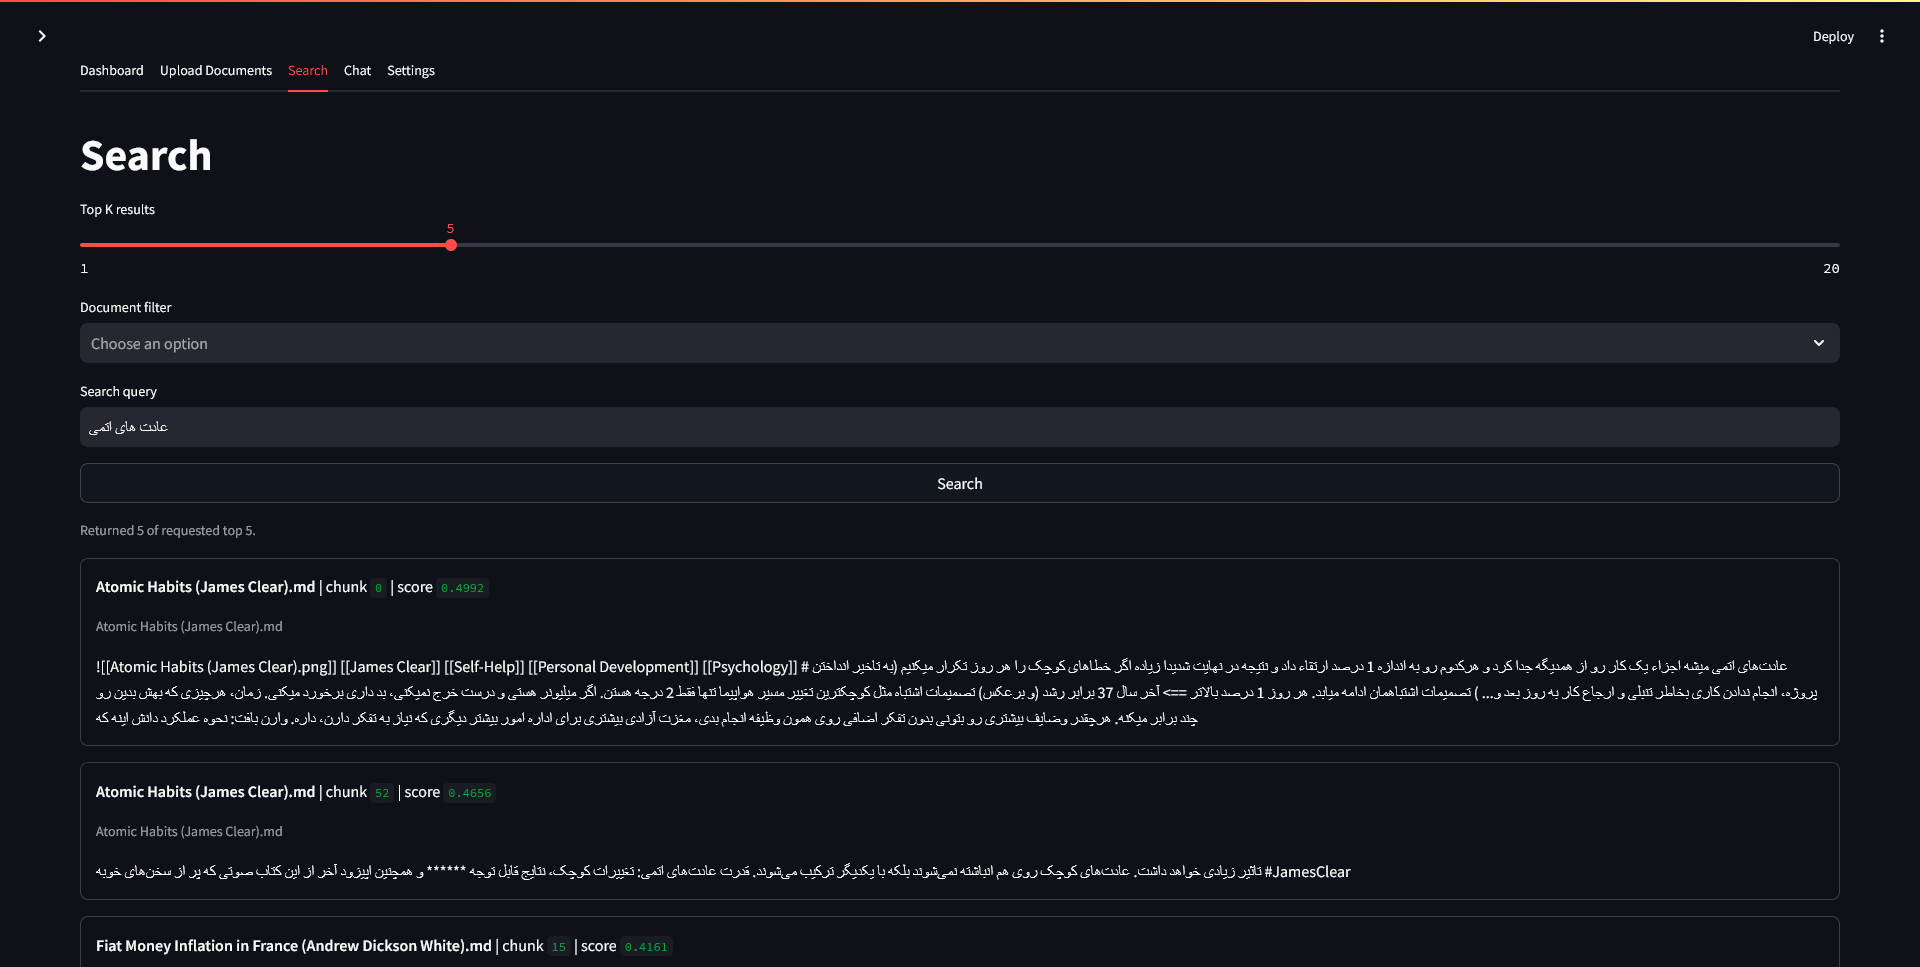
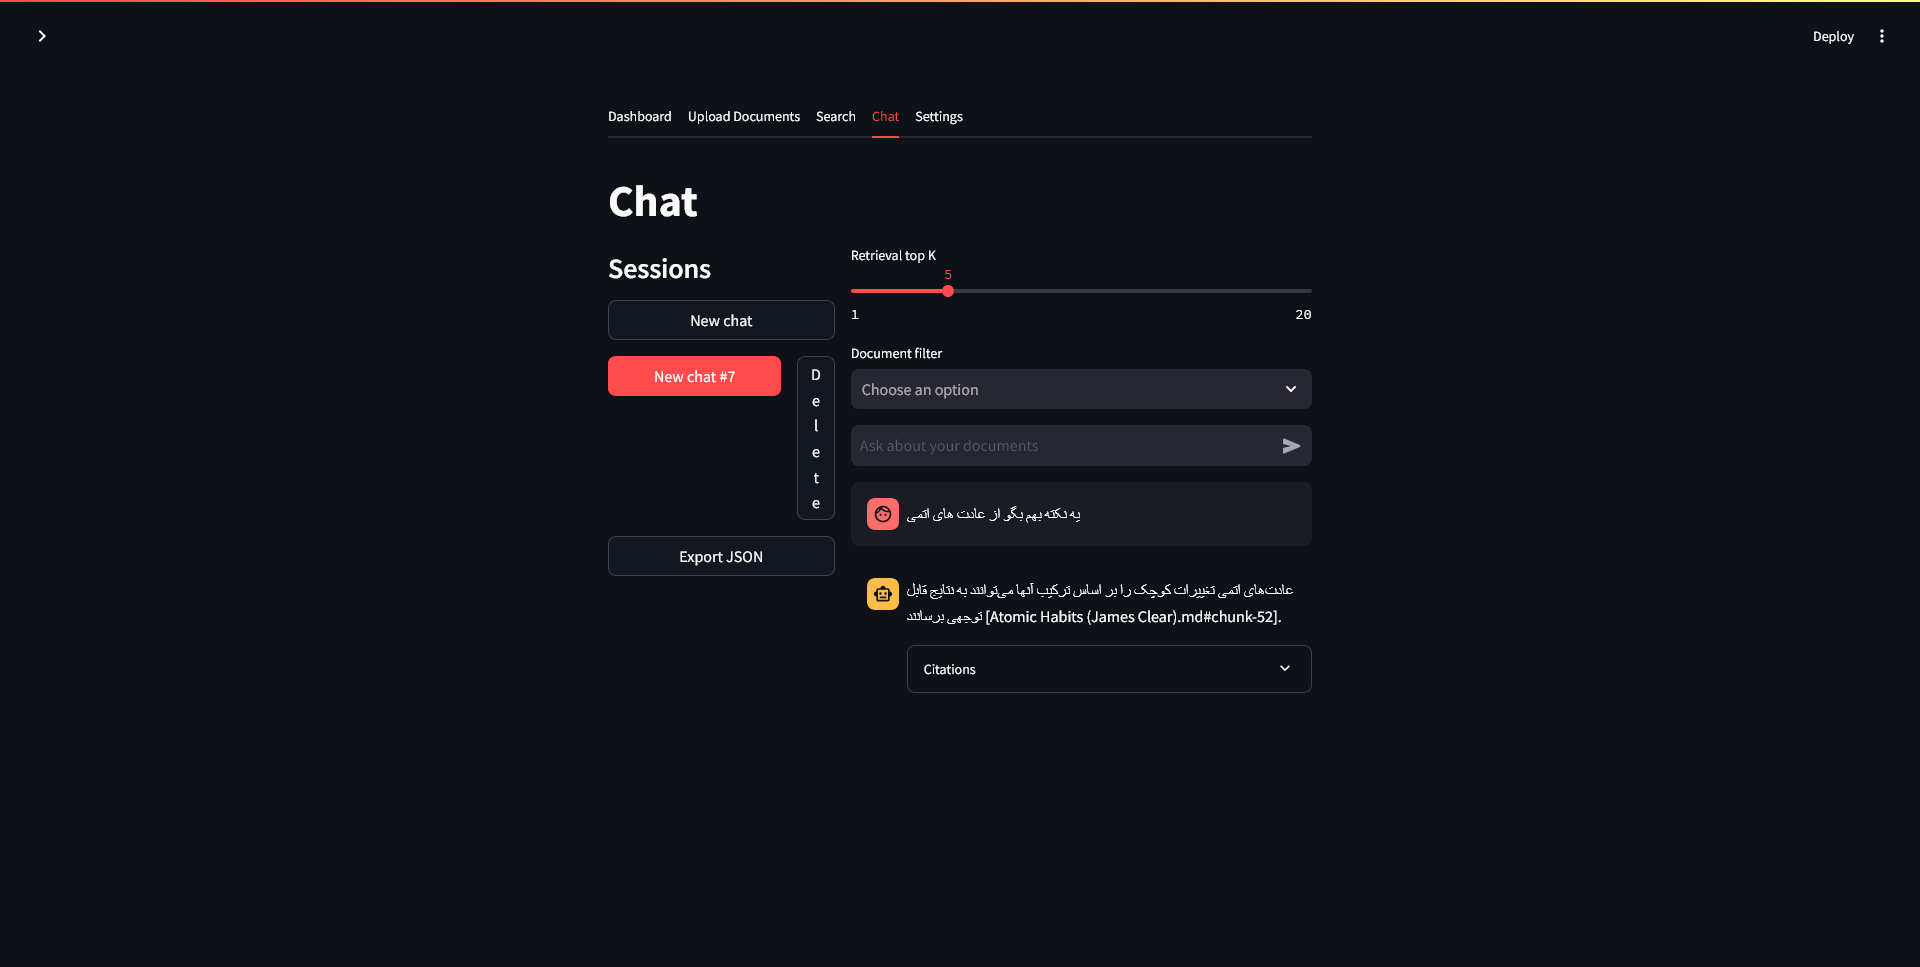
Fix session handling

diff --git a/app/main.py b/app/main.py
@@ -1,10 +1,17 @@
 from __future__ import annotations
 
 from dataclasses import asdict
+from http.cookies import SimpleCookie
 import json
 import sqlite3
 
 import streamlit as st
+import streamlit.components.v1 as components
+
+try:
+    from streamlit.web.server.websocket_headers import _get_websocket_headers
+except ImportError:  # pragma: no cover - Streamlit internal fallback.
+    _get_websocket_headers = None
 
 from app.auth.service import login_user, register_user
 from app.config import get_settings
@@ -19,21 +26,88 @@ from app.rag.retrieval import search_documents
 st.set_page_config(page_title="Ry-Vector", layout="wide")
 
 
+AUTH_COOKIE_NAME = "ry_vector_auth_token"
+AUTH_COOKIE_MAX_AGE = repo.AUTH_SESSION_DAYS * 24 * 60 * 60
+
+
+def session_user(user: UserRecord) -> dict[str, str | int]:
+    return {"id": user.id, "username": user.username, "email": user.email}
+
+
+def render_auth_cookie_script(token: str | None) -> None:
+    if token:
+        cookie_js = (
+            f"document.cookie = {json.dumps(AUTH_COOKIE_NAME)} + '=' + "
+            f"encodeURIComponent({json.dumps(token)}) + "
+            f"'; Max-Age={AUTH_COOKIE_MAX_AGE}; Path=/; SameSite=Lax';"
+        )
+    else:
+        cookie_js = (
+            f"document.cookie = {json.dumps(AUTH_COOKIE_NAME)} + "
+            "'=; Max-Age=0; Path=/; SameSite=Lax';"
+        )
+    components.html(f"<script>{cookie_js}</script>", height=0, width=0)
+
+
+def request_auth_token() -> str | None:
+    if _get_websocket_headers is None:
+        return None
+    try:
+        headers = _get_websocket_headers() or {}
+    except Exception:
+        return None
+    cookie_header = headers.get("Cookie") or headers.get("cookie")
+    if not cookie_header:
+        return None
+    cookies = SimpleCookie()
+    try:
+        cookies.load(cookie_header)
+    except Exception:
+        return None
+    morsel = cookies.get(AUTH_COOKIE_NAME)
+    return morsel.value if morsel else None
+
+
 def init_state() -> None:
     init_db()
     st.session_state.setdefault("user", None)
+    st.session_state.setdefault("auth_token", None)
+    st.session_state.setdefault("auth_cookie_needs_write", False)
     st.session_state.setdefault("active_chat_id", None)
+
+
+def start_authenticated_session(user: UserRecord) -> UserRecord:
+    token = repo.create_auth_session(user.id)
+    st.session_state["user"] = session_user(user)
+    st.session_state["auth_token"] = token
+    st.session_state["auth_cookie_needs_write"] = True
+    return user
 
 
 def current_user() -> UserRecord | None:
     user = st.session_state.get("user")
     if not user:
-        return None
+        token = request_auth_token()
+        if not token:
+            return None
+        fresh = repo.get_user_by_auth_token(token)
+        if not fresh:
+            render_auth_cookie_script(None)
+            return None
+        st.session_state["user"] = session_user(fresh)
+        st.session_state["auth_token"] = token
+        return fresh
     fresh = repo.get_user_by_id(user["id"])
+    if not fresh:
+        token = st.session_state.get("auth_token") or request_auth_token()
+        repo.delete_auth_session(token)
+        st.session_state["user"] = None
+        st.session_state["auth_token"] = None
+        render_auth_cookie_script(None)
     return fresh
 
 
-def login_register_page() -> None:
+def login_register_page() -> UserRecord | None:
     st.title("Ry-Vector")
     st.caption("Private multi-user RAG over your own documents.")
     tab_login, tab_register = st.tabs(["Login", "Register"])
@@ -46,8 +120,7 @@ def login_register_page() -> None:
         if submitted:
             user = login_user(identifier, password)
             if user:
-                st.session_state["user"] = {"id": user.id, "username": user.username, "email": user.email}
-                st.rerun()
+                return start_authenticated_session(user)
             st.error("Invalid username/email or password.")
 
     with tab_register:
@@ -69,19 +142,23 @@ def login_register_page() -> None:
             else:
                 try:
                     user = register_user(username, email, password)
-                    st.session_state["user"] = {"id": user.id, "username": user.username, "email": user.email}
-                    st.rerun()
+                    return start_authenticated_session(user)
                 except sqlite3.IntegrityError:
                     st.error("Username or email already exists.")
+    return None
 
 
-def sidebar(user: UserRecord) -> None:
+def sidebar(user: UserRecord) -> bool:
     with st.sidebar:
         st.subheader("Ry-Vector")
         st.caption(f"Signed in as {user.username}")
         if st.button("Logout", use_container_width=True):
+            token = st.session_state.get("auth_token") or request_auth_token()
+            repo.delete_auth_session(token)
             st.session_state.clear()
-            st.rerun()
+            render_auth_cookie_script(None)
+            return True
+    return False
 
 
 def dashboard_page(user: UserRecord) -> None:
@@ -226,7 +303,7 @@ def chat_page(user: UserRecord) -> None:
             st.info("No chat history yet.")
         for session in sessions:
             label = f"{session.title} #{session.id}"
-            select_col, delete_col = st.columns([4, 1])
+            select_col, delete_col = st.columns([2, 2])
             button_type = "primary" if active_session and active_session.id == session.id else "secondary"
             if select_col.button(label, key=f"session_{session.id}", type=button_type, use_container_width=True):
                 st.session_state["active_chat_id"] = session.id
@@ -333,10 +410,22 @@ def main() -> None:
     init_state()
     user = current_user()
     if not user:
-        login_register_page()
-        return
+        auth_placeholder = st.empty()
+        with auth_placeholder.container():
+            user = login_register_page()
+        if not user:
+            return
+        auth_placeholder.empty()
 
-    sidebar(user)
+    if st.session_state.get("auth_cookie_needs_write"):
+        render_auth_cookie_script(st.session_state.get("auth_token"))
+        st.session_state["auth_cookie_needs_write"] = False
+
+    if sidebar(user):
+        auth_placeholder = st.empty()
+        with auth_placeholder.container():
+            login_register_page()
+        return
     dashboard_tab, upload_tab, search_tab, chat_tab, settings_tab = st.tabs(
         ["Dashboard", "Upload Documents", "Search", "Chat", "Settings"]
     )

diff --git a/app/db/repositories.py b/app/db/repositories.py
@@ -1,6 +1,9 @@
 from __future__ import annotations
 
+from datetime import datetime, timedelta, timezone
+import hashlib
 import json
+import secrets
 from typing import Any, Iterable
 
 from passlib.context import CryptContext
@@ -16,6 +19,15 @@ from app.utils.files import now_utc_iso
 
 
 pwd_context = CryptContext(schemes=["bcrypt"], deprecated="auto")
+AUTH_SESSION_DAYS = 30
+
+
+def _utc_now_iso() -> str:
+    return datetime.now(timezone.utc).isoformat()
+
+
+def _hash_auth_token(token: str) -> str:
+    return hashlib.sha256(token.encode("utf-8")).hexdigest()
 
 
 def hash_password(password: str) -> str:
@@ -111,6 +123,54 @@ def authenticate_user(identifier: str, password: str) -> UserRecord | None:
     if not user:
         return None
     return user if verify_password(password, user.password_hash) else None
+
+
+def create_auth_session(user_id: int) -> str:
+    token = secrets.token_urlsafe(32)
+    created_at = _utc_now_iso()
+    expires_at = (datetime.now(timezone.utc) + timedelta(days=AUTH_SESSION_DAYS)).isoformat()
+    with get_connection() as conn:
+        conn.execute(
+            """
+            INSERT INTO auth_sessions (token_hash, user_id, created_at, last_used_at, expires_at)
+            VALUES (?, ?, ?, ?, ?)
+            """,
+            (_hash_auth_token(token), user_id, created_at, created_at, expires_at),
+        )
+    return token
+
+
+def get_user_by_auth_token(token: str) -> UserRecord | None:
+    token = token.strip()
+    if not token:
+        return None
+    token_hash = _hash_auth_token(token)
+    now = _utc_now_iso()
+    with get_connection() as conn:
+        conn.execute("DELETE FROM auth_sessions WHERE expires_at <= ?", (now,))
+        row = conn.execute(
+            """
+            SELECT users.*
+            FROM auth_sessions
+            JOIN users ON users.id = auth_sessions.user_id
+            WHERE auth_sessions.token_hash = ? AND auth_sessions.expires_at > ?
+            """,
+            (token_hash, now),
+        ).fetchone()
+        if not row:
+            return None
+        conn.execute(
+            "UPDATE auth_sessions SET last_used_at = ? WHERE token_hash = ?",
+            (now, token_hash),
+        )
+        return _row_to_user(row)
+
+
+def delete_auth_session(token: str | None) -> None:
+    if not token:
+        return
+    with get_connection() as conn:
+        conn.execute("DELETE FROM auth_sessions WHERE token_hash = ?", (_hash_auth_token(token.strip()),))
 
 
 def list_documents(user_id: int, include_deleted: bool = False) -> list[DocumentRecord]:

diff --git a/app/db/database.py b/app/db/database.py
@@ -61,6 +61,16 @@ SCHEMA_STATEMENTS = [
     )
     """,
     """
+    CREATE TABLE IF NOT EXISTS auth_sessions (
+        token_hash TEXT PRIMARY KEY,
+        user_id INTEGER NOT NULL,
+        created_at TEXT NOT NULL,
+        last_used_at TEXT NOT NULL,
+        expires_at TEXT NOT NULL,
+        FOREIGN KEY(user_id) REFERENCES users(id) ON DELETE CASCADE
+    )
+    """,
+    """
     CREATE INDEX IF NOT EXISTS idx_documents_user_id ON documents(user_id)
     """,
     """
@@ -71,6 +81,12 @@ SCHEMA_STATEMENTS = [
     """,
     """
     CREATE INDEX IF NOT EXISTS idx_chat_messages_session_id ON chat_messages(session_id)
+    """,
+    """
+    CREATE INDEX IF NOT EXISTS idx_auth_sessions_user_id ON auth_sessions(user_id)
+    """,
+    """
+    CREATE INDEX IF NOT EXISTS idx_auth_sessions_expires_at ON auth_sessions(expires_at)
     """,
 ]
 
@@ -97,4 +113,3 @@ def init_db() -> None:
     with get_connection() as conn:
         for statement in SCHEMA_STATEMENTS:
             conn.execute(statement)
-